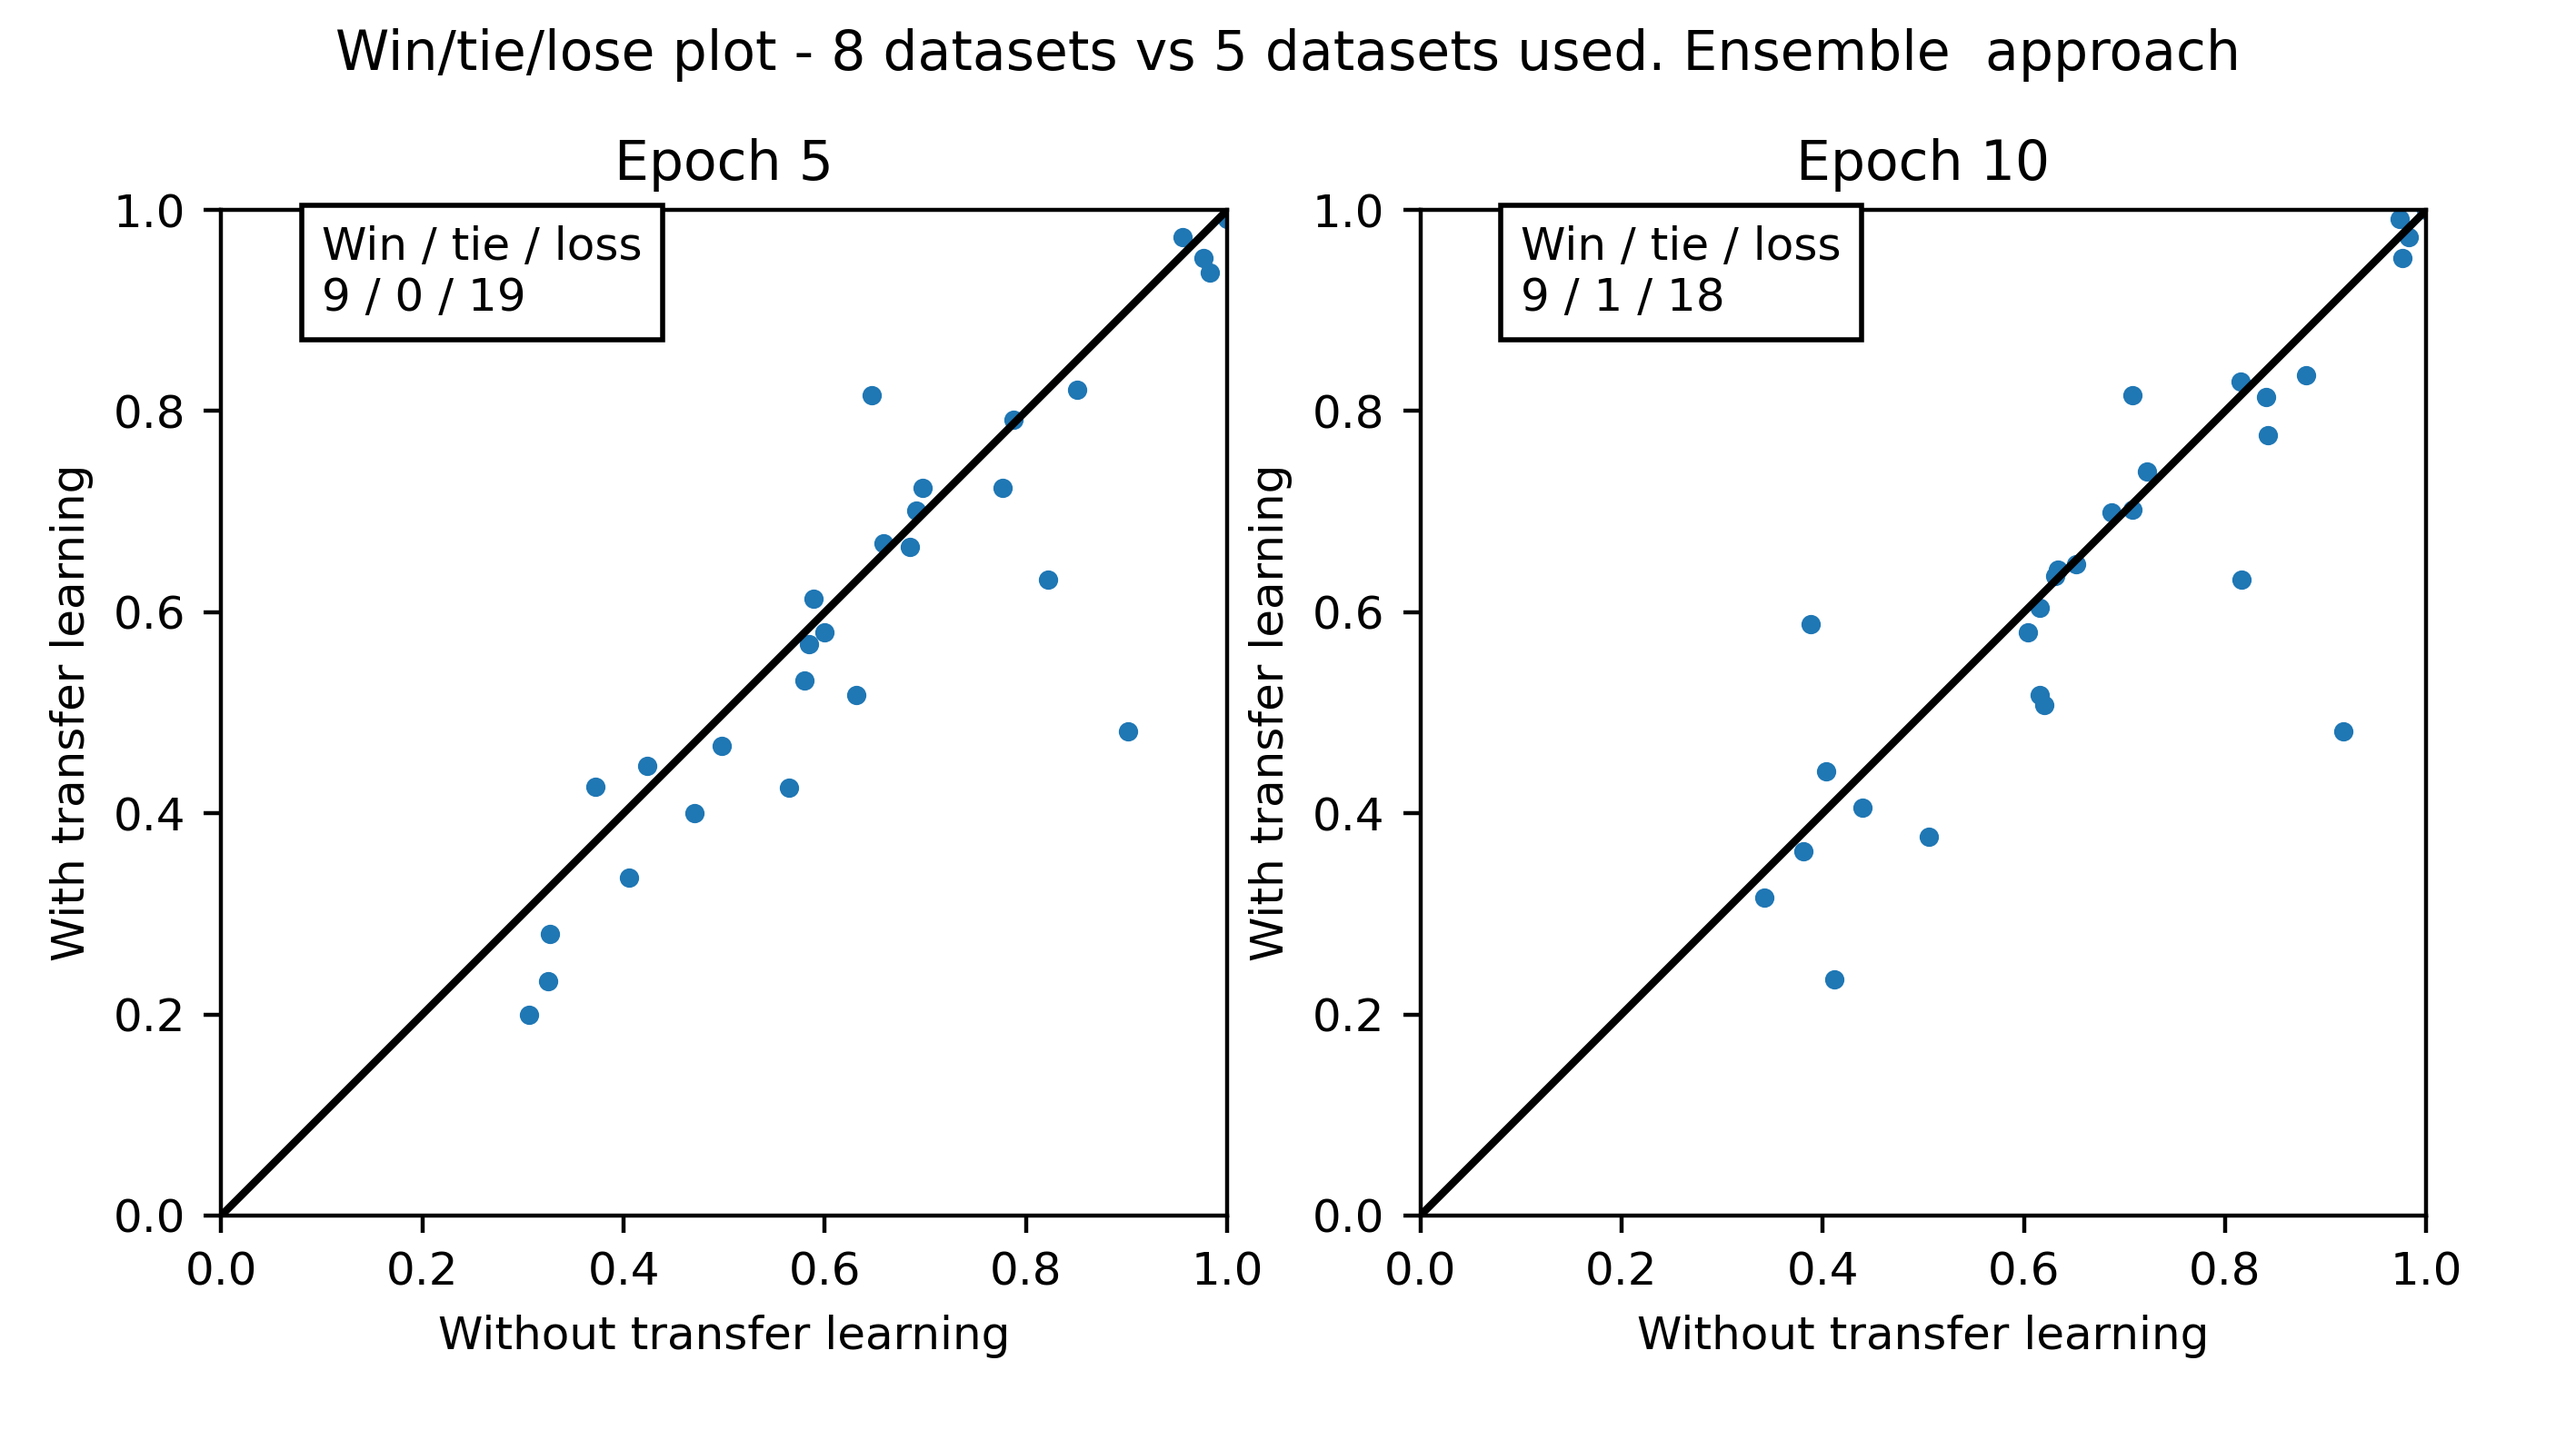
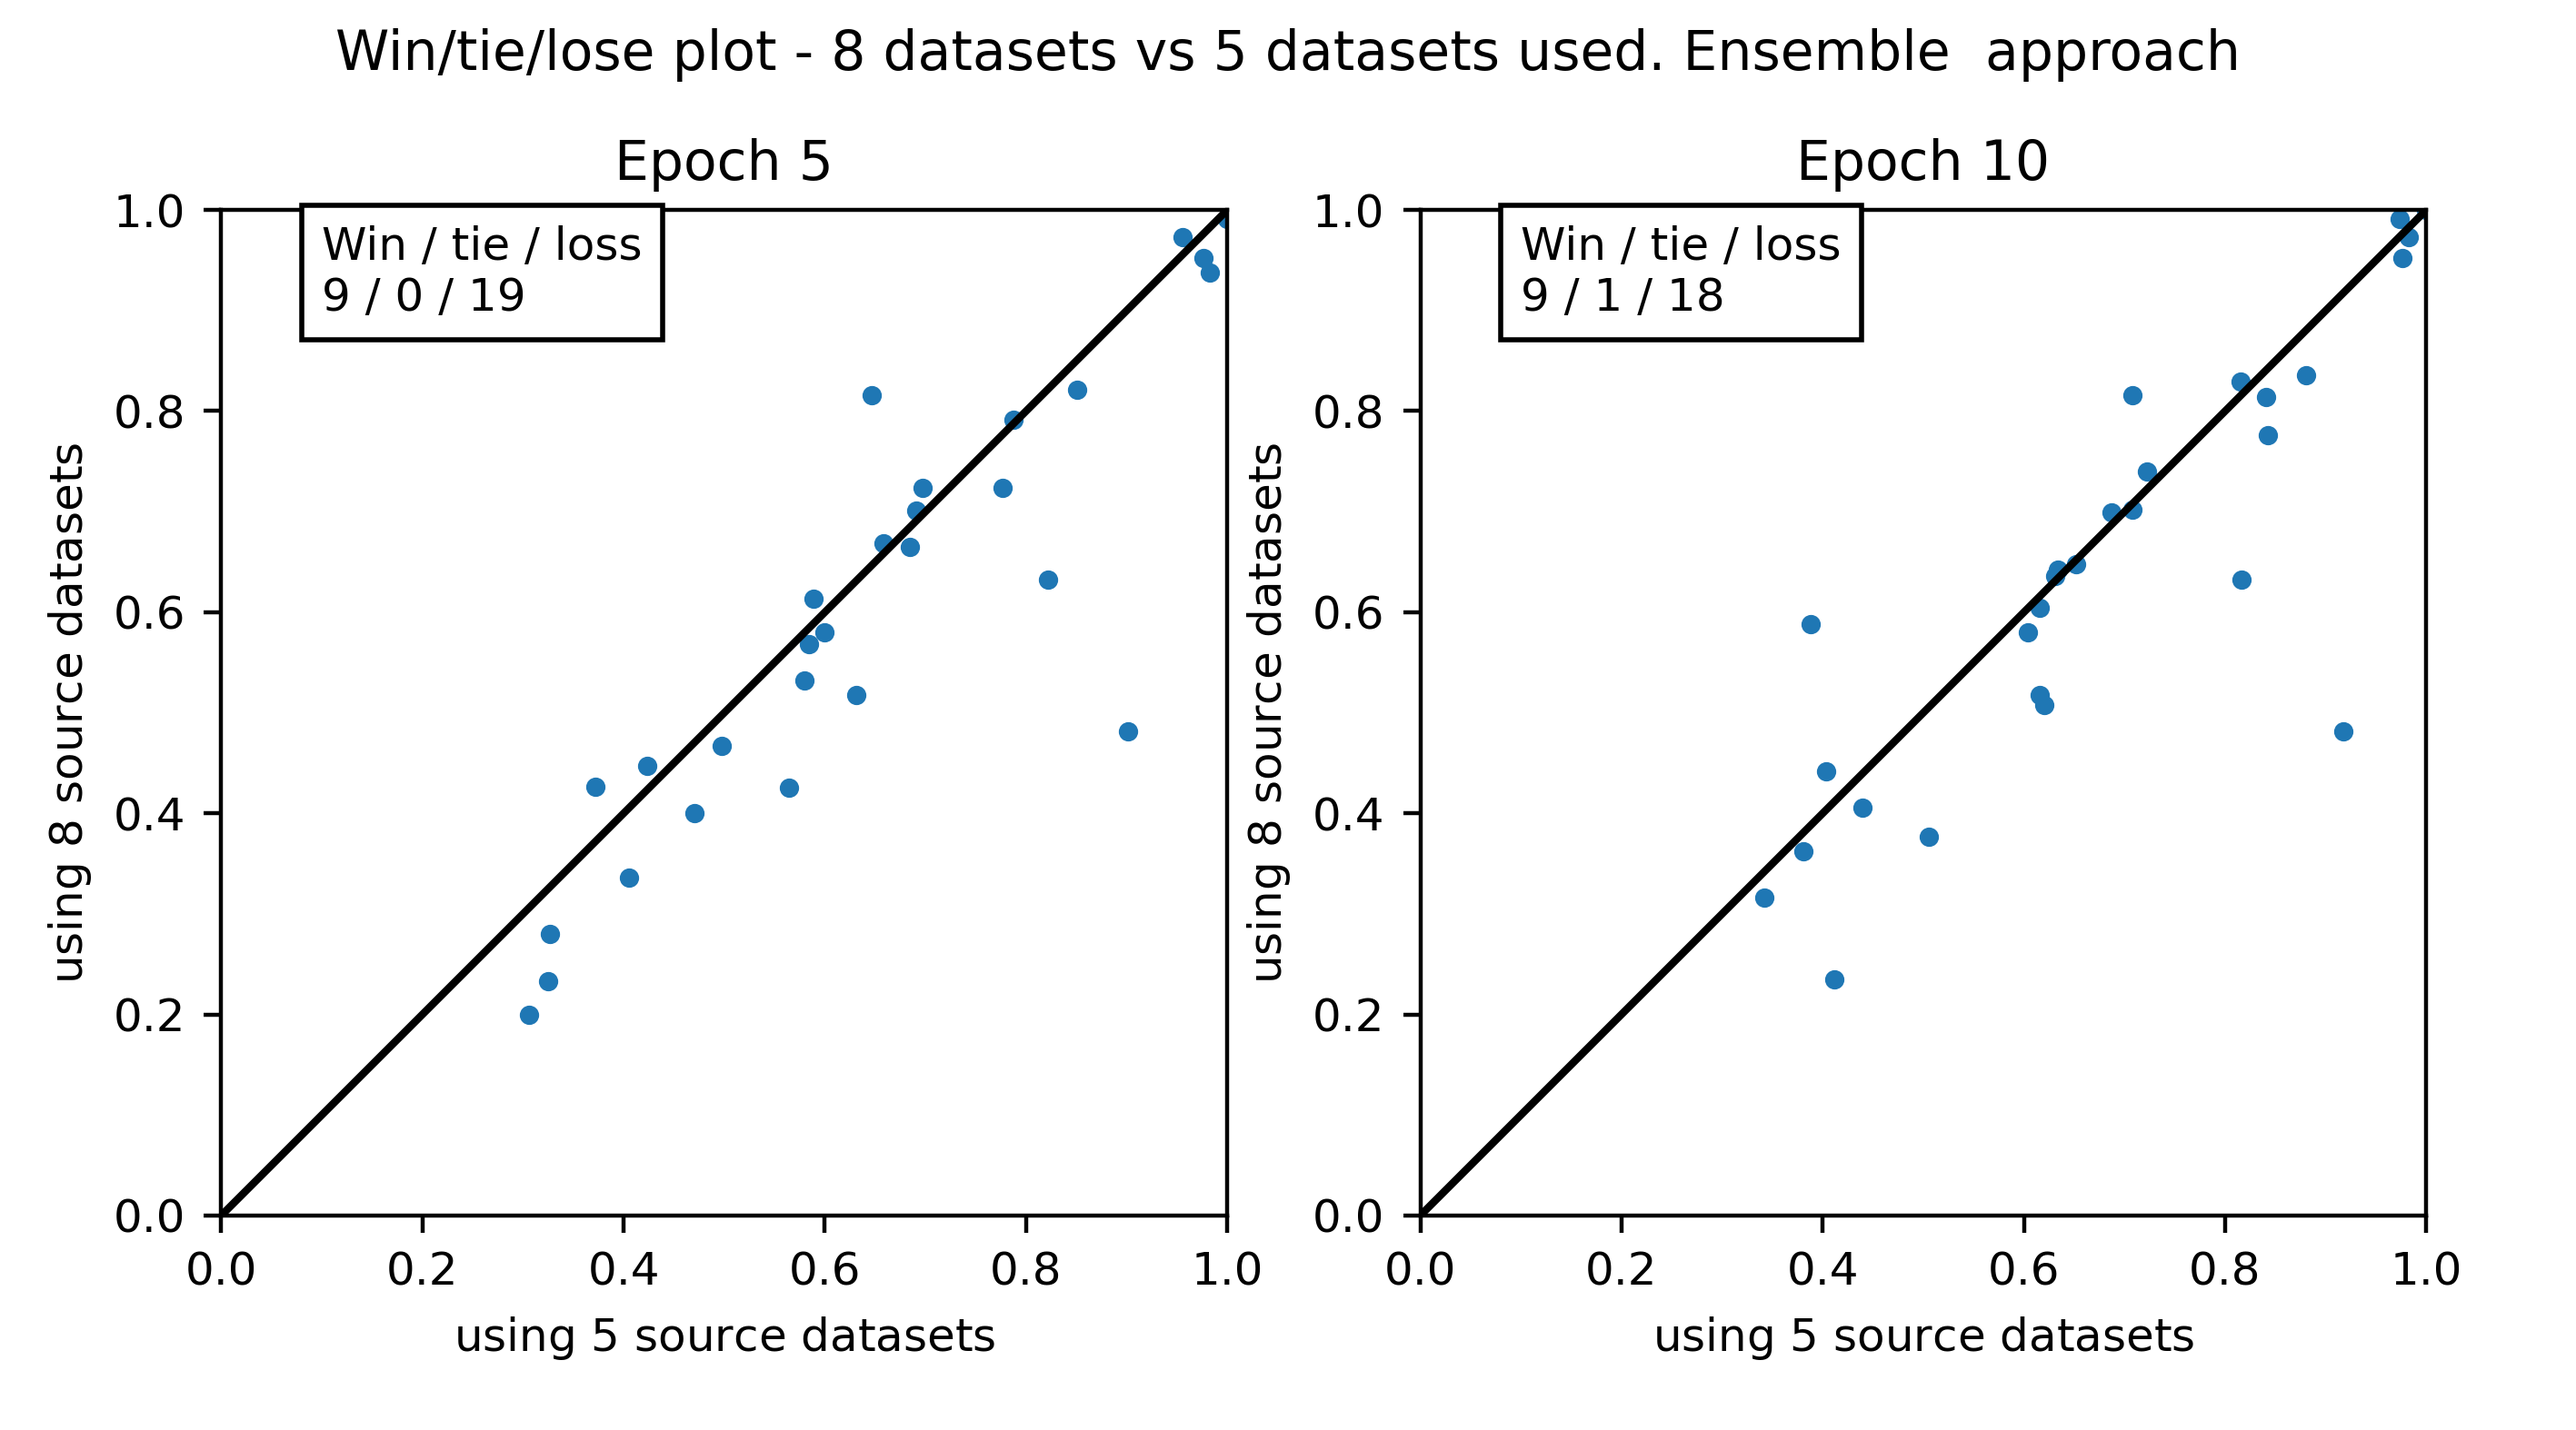
fixed  axis labels win tie loss

diff --git a/src/results/ensemble_dba_5_vs_8/get_metrics_per_epoch.py b/src/results/ensemble_dba_5_vs_8/get_metrics_per_epoch.py
@@ -16,6 +16,8 @@ class NumberOfDatasets5_8(Results):
     second_result_key_name_val_loss = "5_ensemble_val_loss"
     second_result_key_name_acc = "5_ensemble_accuracy"
     second_result_key_name_val_acc = "5_ensemble_val_accuracy"
+    x_label_win_tie_loss = "using $5$ source datasets"
+    y_label_win_tie_loss = "using $8$ source datasets"
 
     def _get_first_experiment_runs(self) -> Dict[str, Run]:
         hist = self._get_history_per_experiment(

diff --git a/src/results/ensemble_dba_3_vs_5/get_metrics_per_epoch.py b/src/results/ensemble_dba_3_vs_5/get_metrics_per_epoch.py
@@ -20,6 +20,8 @@ class NumberOfDatasets(Results):
     third_result_key_name_val_loss = "8_ensemble_val_loss"
     third_result_key_name_acc = "8_ensemble_accuracy"
     third_result_key_name_val_acc = "8_ensemble_val_accuracy"
+    x_label_win_tie_loss = "using 5 source datasets"
+    y_label_win_tie_loss = "using 3 source datasets"
 
     def __init__(
         self,
